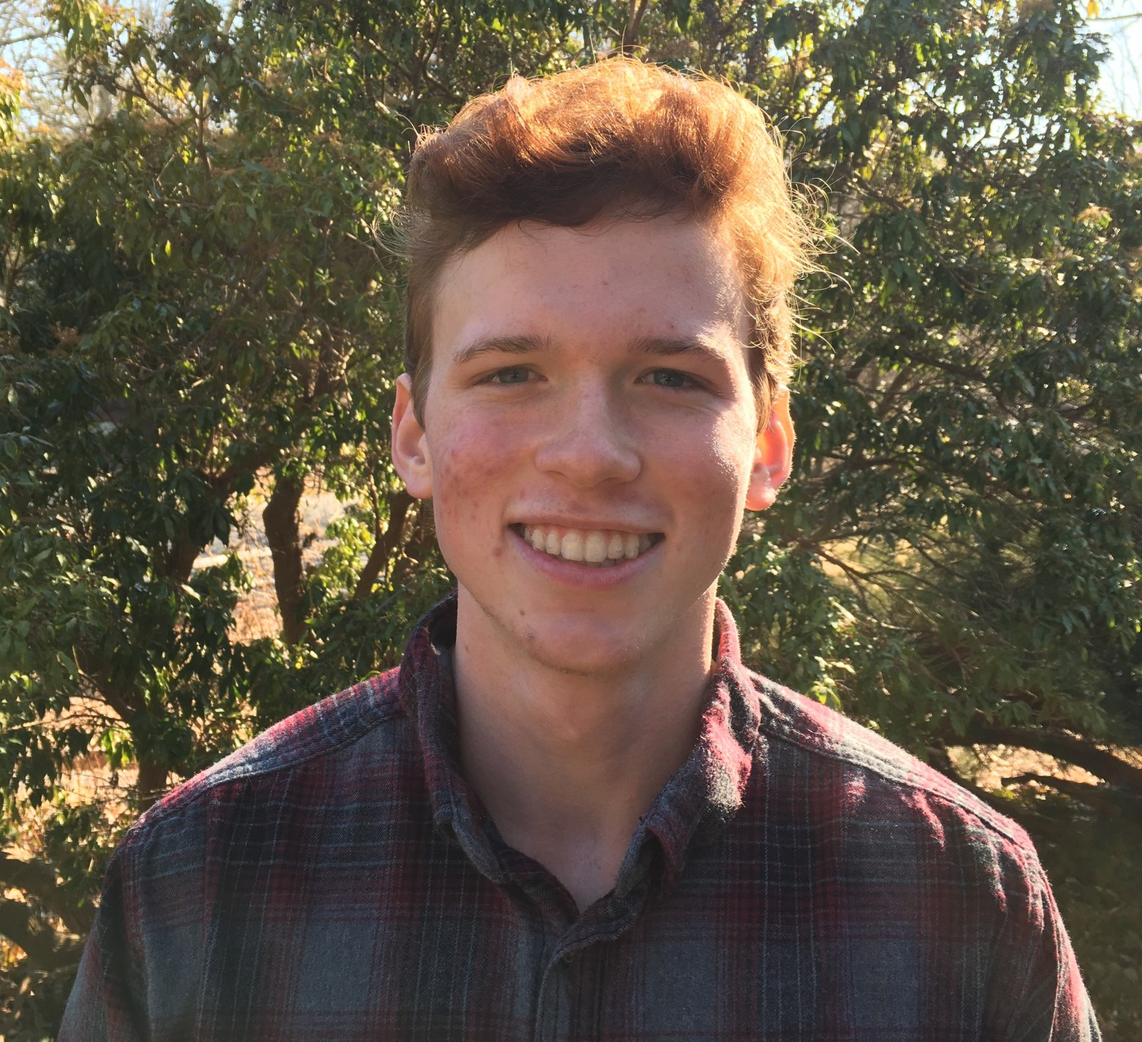
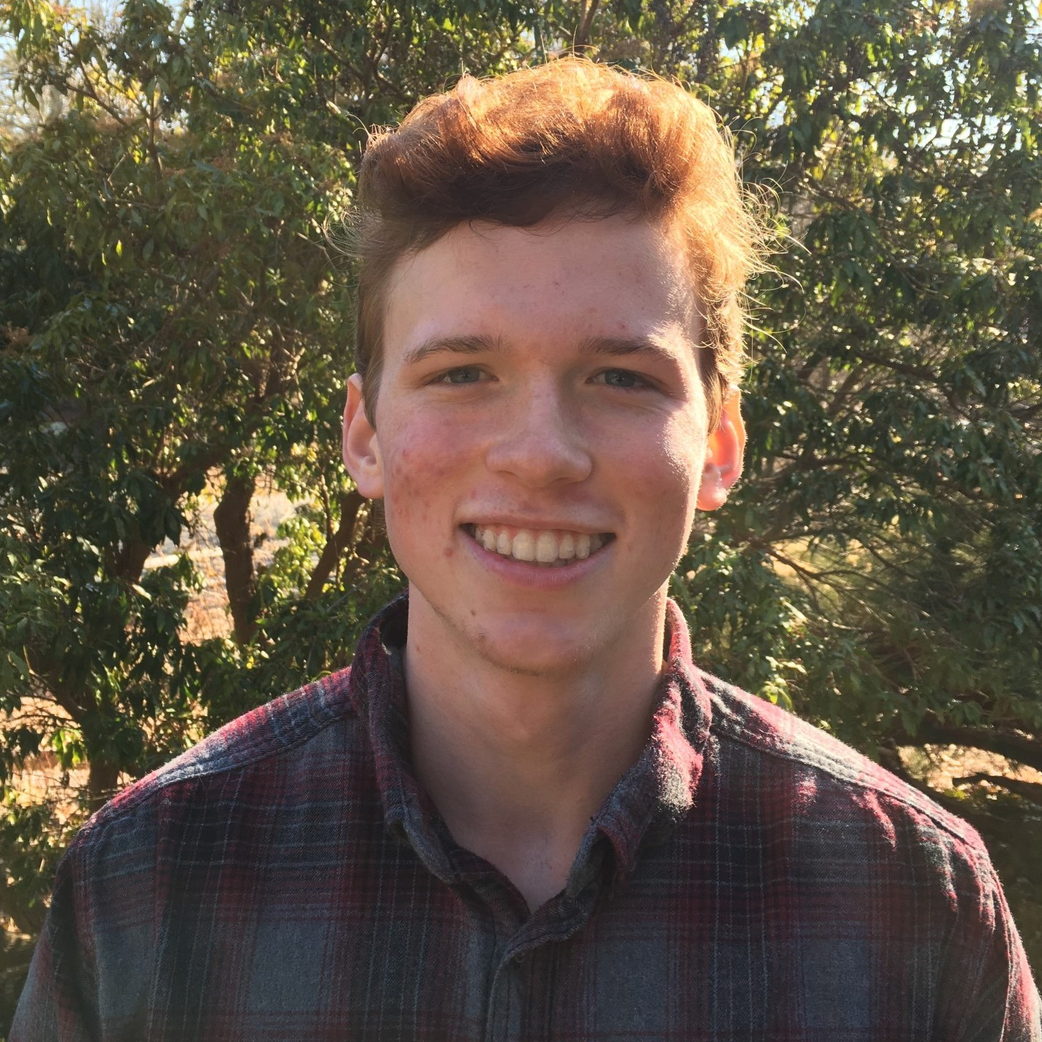
Add CSS

diff --git a/index.html b/index.html
@@ -6,26 +6,25 @@
     </head>
     <body>
         <header>
-            <h1>John Walsh</h1>
-            <nav>
+            <h1 id="logo"><a href="#home">John Walsh</a></h1>
+            <nav id="nav">
                 <ul>
                     <li><a href="#home">Home</a></li>
                     <li><a href="#experience">Experience</a></li>
                     <li><a href="#projects">Projects</a></li>
-                    <li><a href="C:\Users\John\Downloads\JohnWalshResumeSummer2020.pdf">Resume</a></li>
+                    <li><a href="resume.pdf">Resume</a></li>
                 </ul>
             </nav>
         </header>
         <main>
             <section id="home">
                 <div class="section-content">
-                    <img src="C:\Users\John\Downloads\JohnWalshLinkedinPicture3.jpg"
-                    width="390" height="356">
-                    <h2>Hi, I'm John Walsh.</h2>
-                    <p>I am currently a freshman at Northeastern University, studying Computer Science
+                    <img src="img/profile_picture.jpg" class="profile-img">
+                    <h2>Hi. I'm John Walsh.</h2>
+                    <h4>I am currently a freshman at Northeastern University, studying Computer Science
                         with a concentration in Artificial Intelligence. I am interested in machine
                         learning, specifically Computer Vision and Natural Language Processing, and
-                        its applications with real world data.</p>
+                        its applications with real world data.</h4>
                 </div>
             </section>
             <section id="experience">

diff --git a/style.css b/style.css
@@ -1,0 +1,89 @@
+body {
+    margin: 0;
+    margin-top: 50px;
+    font-family: 'Segoe UI', Tahoma, Geneva, Verdana, sans-serif;
+    background-color: #002447;
+}
+
+header {
+    display: fixed;
+    position: fixed;
+    top: 0;
+    left: 0;
+    right: 0;
+    height: 50px;
+    line-height: 50px;
+    background-color: #035aa6;
+}
+
+header * {
+    display: inline;
+    color: white;
+}
+
+header ul {
+    padding: 0;
+    color: white;
+}
+
+header li {
+    margin-left: 20px;
+    color: white;
+}
+
+#nav a{
+    color: #f2f2f2;
+    text-decoration:none;
+}
+
+#nav a:hover {
+   color: #add8e6;
+   transition: 0.3s;
+}
+
+section {
+    height: 100vh;
+    display: flex;
+    border: 1px solid white;
+    align-items: center;
+    text-align: center;
+    text-emphasis-color: white;
+    background-color: #002447;
+    color: white;
+}
+
+#home .profile-img {
+    width: 400px;
+    border-radius: 50%;
+    margin: auto 50px;
+    float: left;
+}
+
+footer {
+    text-align: center;
+    padding: 50px;
+    color: white;
+}
+
+header h1 {
+    color: white;
+}
+
+section h2 {
+    font-size: 2.5em;
+}
+
+section h3 {
+    font-size: 1.5em;
+}
+
+header a {
+    text-decoration: none;
+    color: white;
+}
+
+#logo a {
+    padding-left: 10px;
+}
+
+
